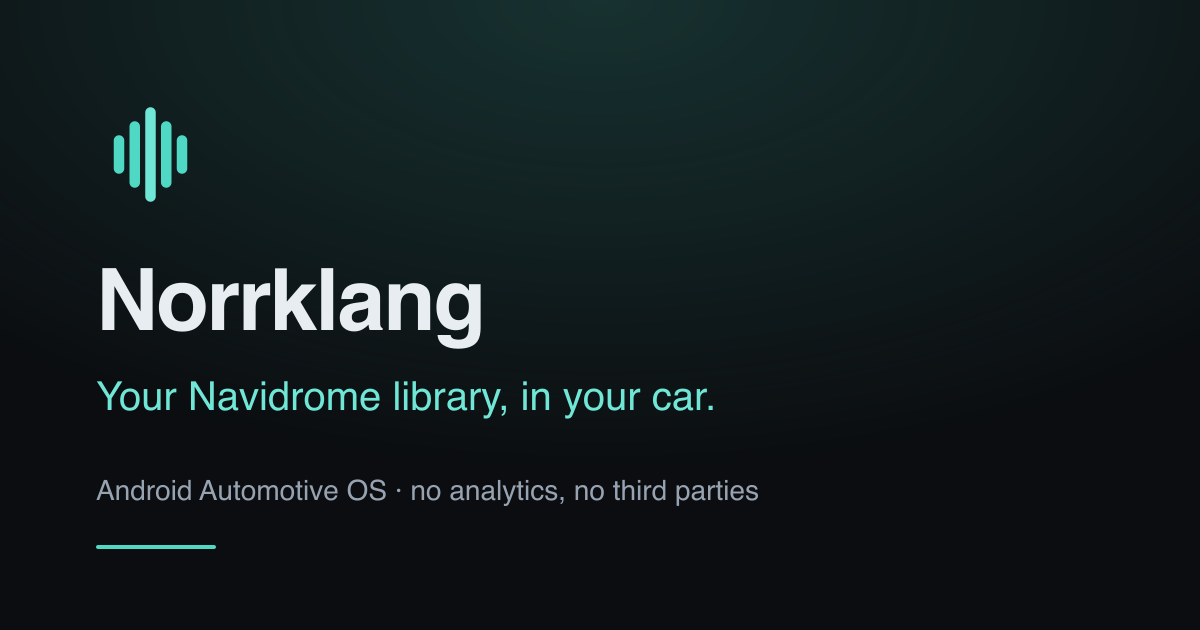
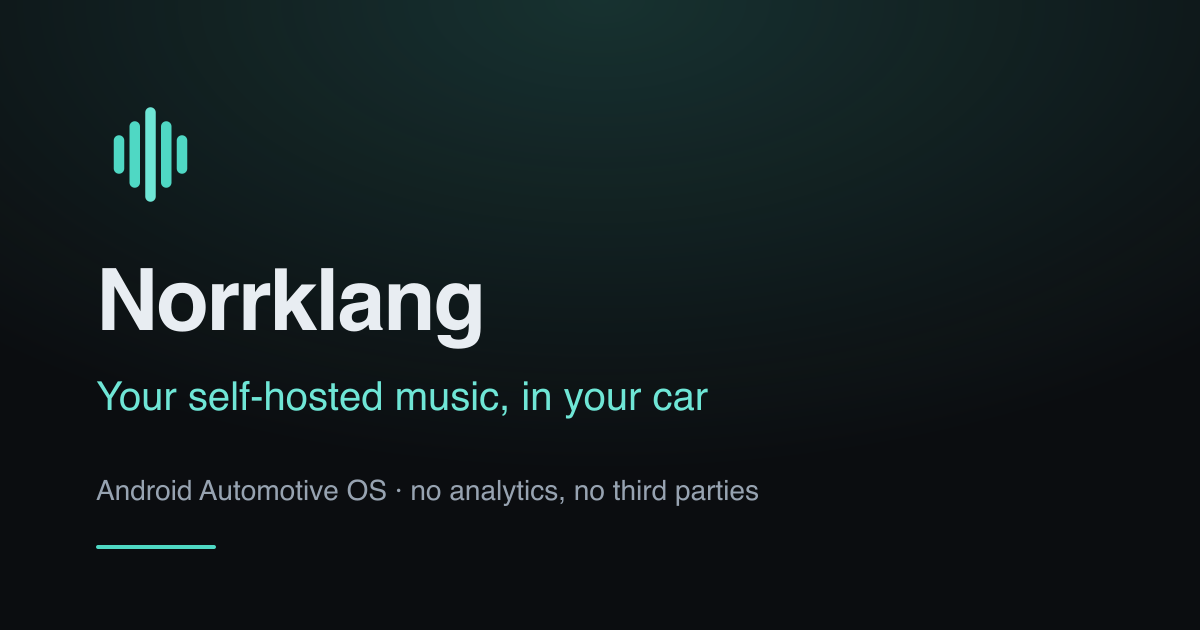
feat: update website to include plex info and replace screenshots

Changed region(s): [[0.1542, 0.6032, 0.5858, 0.6635]]

diff --git a/www/src/config.ts b/www/src/config.ts
@@ -2,7 +2,7 @@
 
 export const SITE_NAME = 'Norrklang';
 export const SITE_URL = 'https://norrklang.app';
-export const TAGLINE = 'Your Navidrome library, in your car';
+export const TAGLINE = 'Your self-hosted music, in your car';
 export const DESCRIPTION =
   'Norrklang is a music player for Navidrome and Subsonic-compatible servers ' +
   'and for Plex, made for cars running Android Automotive OS. It installs in ' +
